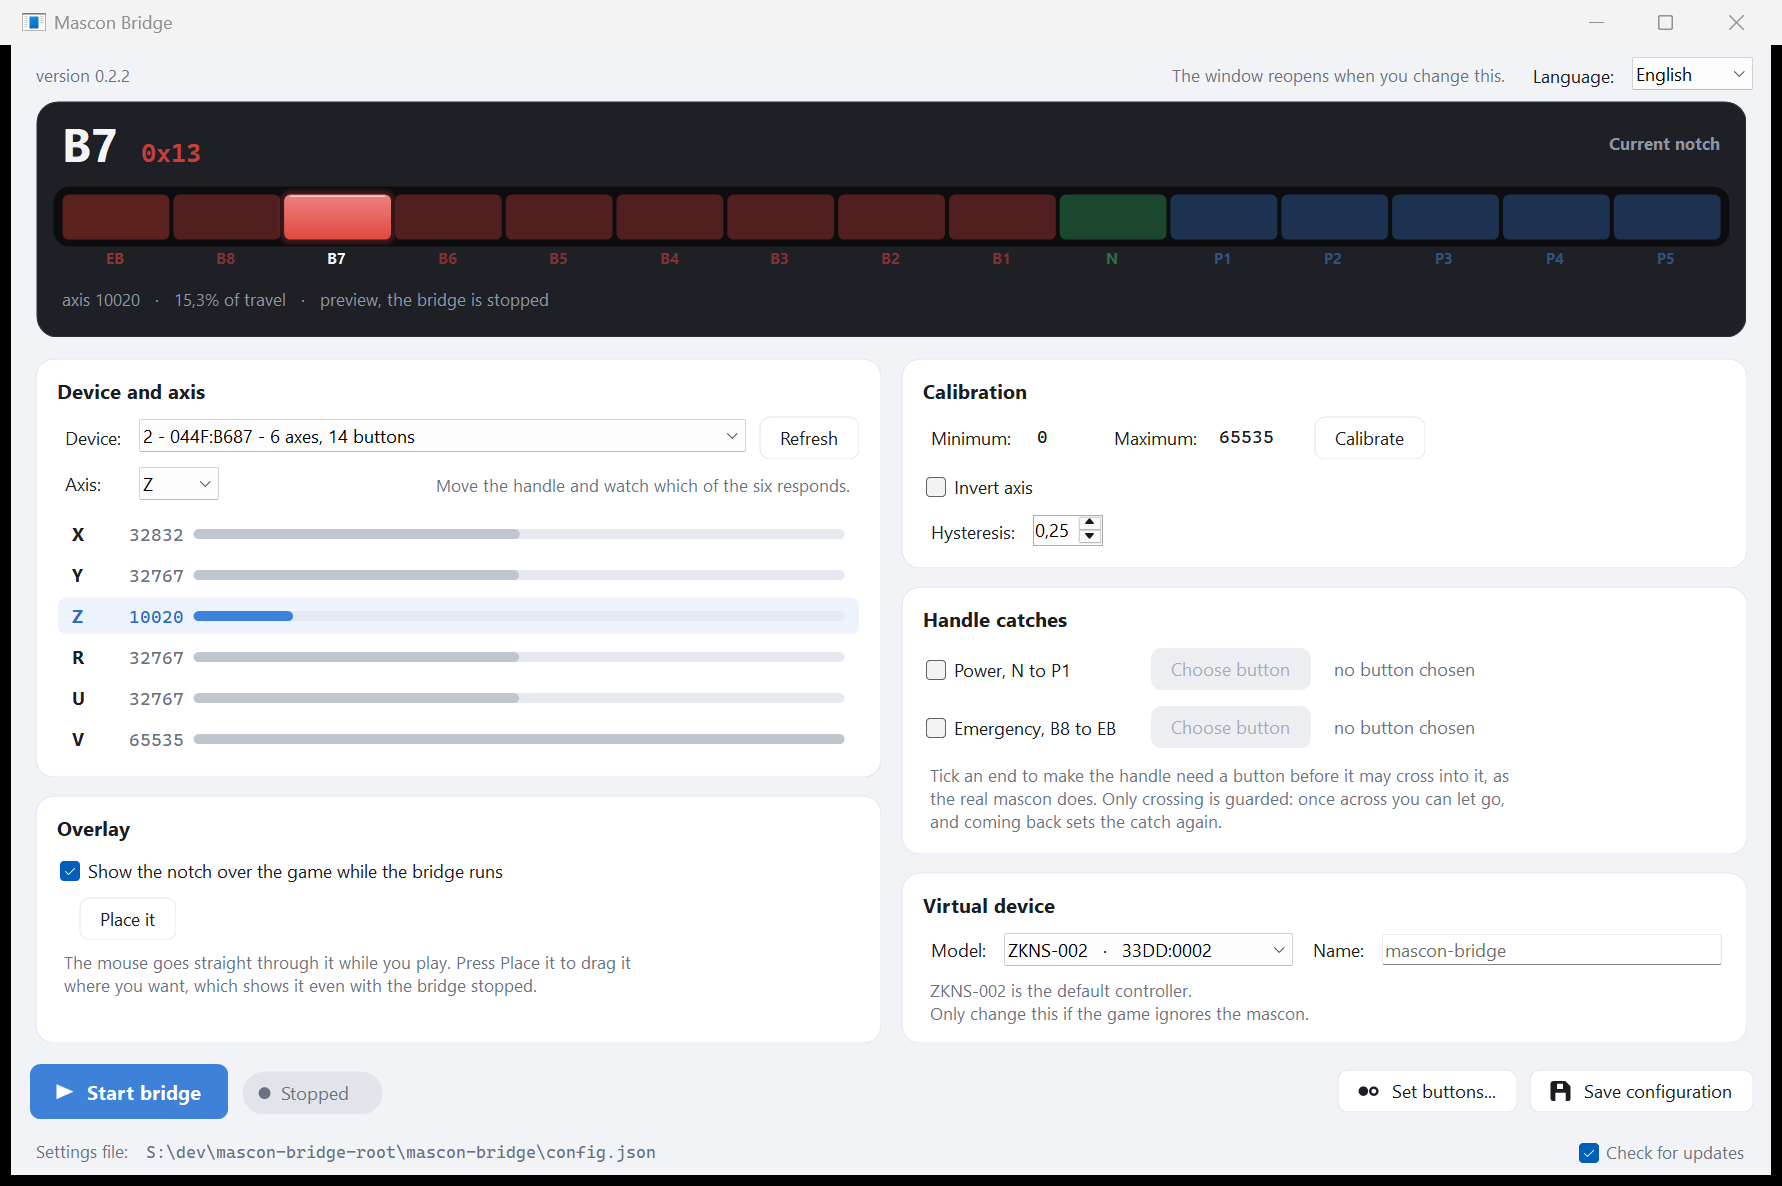
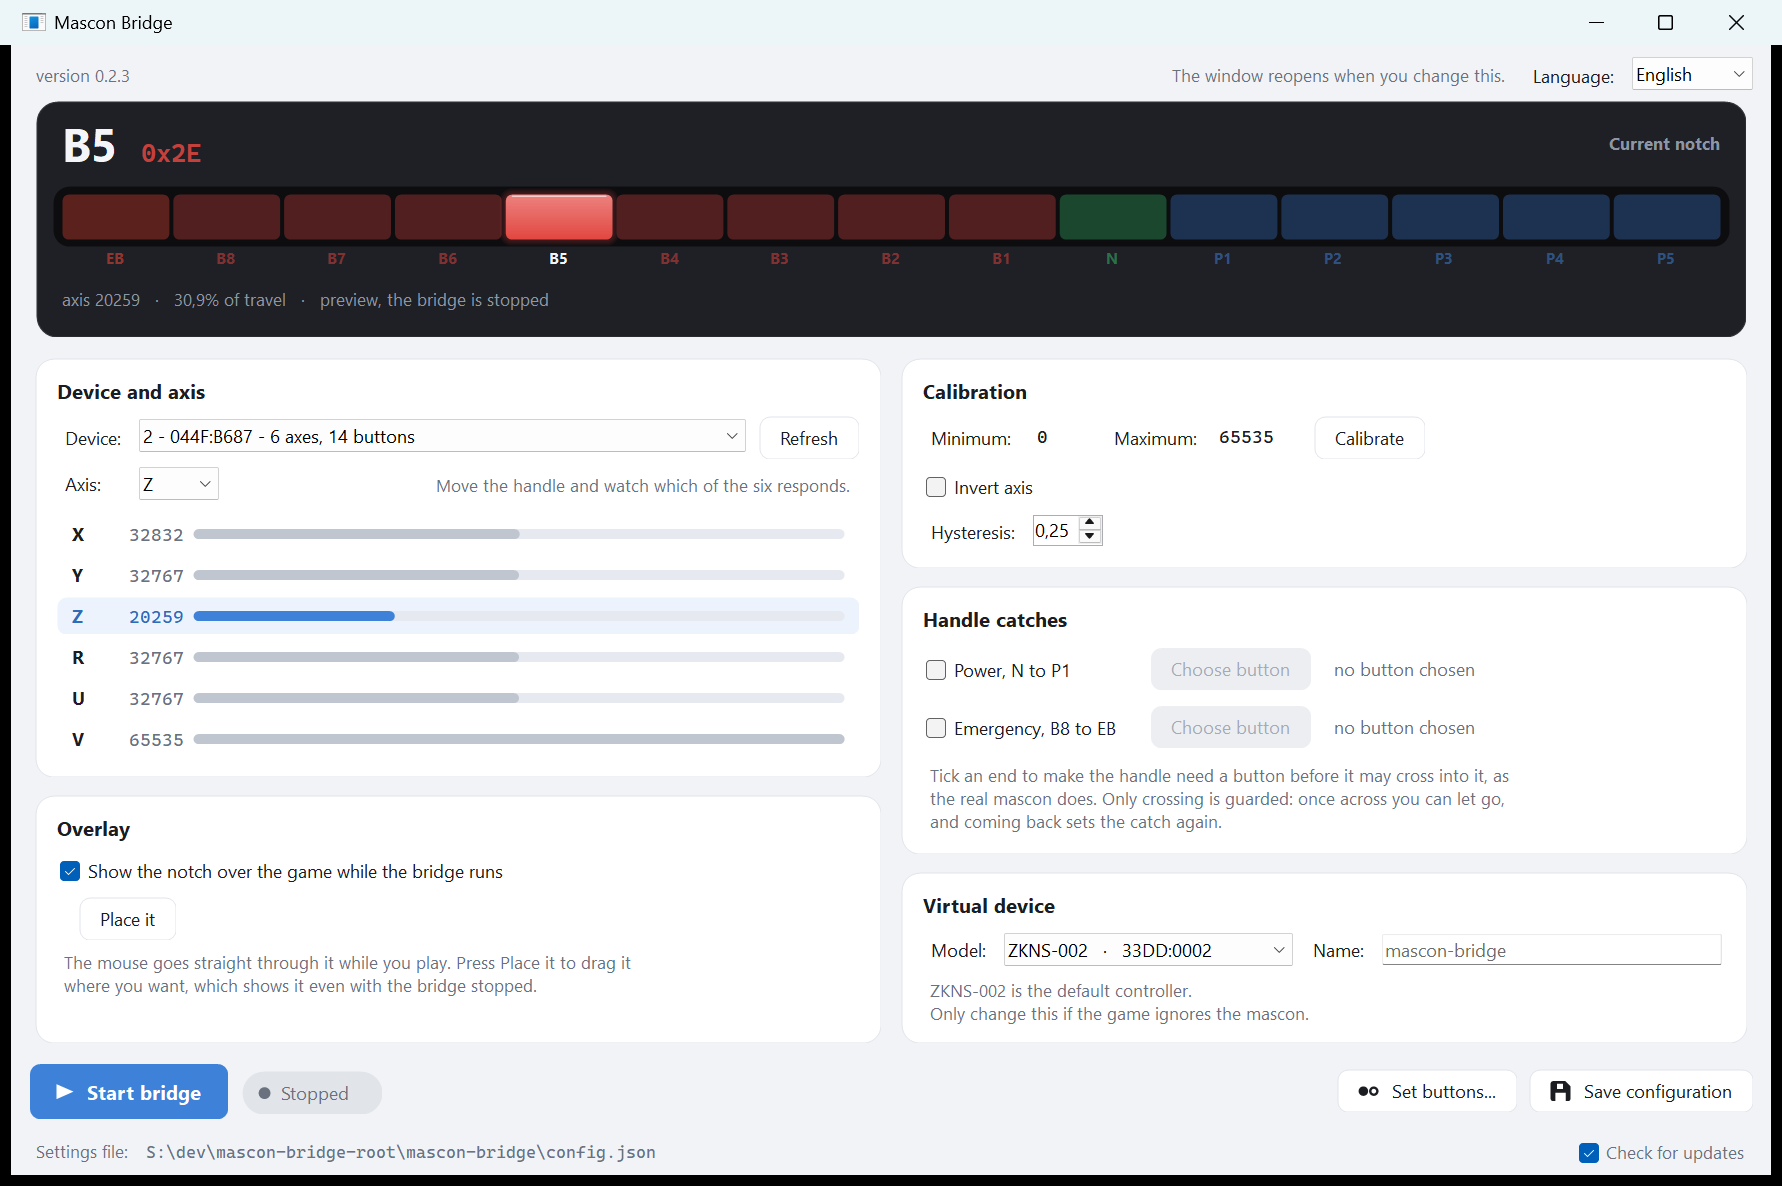
Write the changelog for v0.2.3, and stamp the version (#24)
* Write the changelog for v0.2.3, and stamp the version

The virtual device can be given a different name, for software that matches
on it rather than on the ids, and the name Windows had cached is updated so
the change lands on pressing Start.

* Retake the screenshots for v0.2.3

They carry the version in their corner, so they would otherwise go out a
patch behind.

diff --git a/release-notes/v0.2.3.md b/release-notes/v0.2.3.md
@@ -1,0 +1,41 @@
+- **仮想デバイスの名前を変更できるようになりました。** 「仮想デバイス」の**名前**の欄に
+  入力すると、その名前で名乗ります。空欄なら `mascon-bridge` のままです。ゲームはこの名前を
+  見ません。Steam もゲームもベンダー ID とプロダクト ID で判定するためで、そこは変わって
+  いません。
+- **この欄があるのは、名前で判定する外部ソフトのためです。** たとえば BVE Trainsim の入力
+  デバイスプラグインには、デバイス名でプロファイルを対応づけるものがあります。その場合は
+  実機の名前を入れると一致します。ゲームで使うぶんには空欄のままで構いません。
+- **Windows が覚えている名前も更新するようにしました。** Windows は各デバイスの名前を
+  ベンダー ID とプロダクト ID ごとに控えていて、「ゲーム コントローラー」の画面はデバイス
+  ではなくその控えを読みます。この控えが残るため、これまでは名前を変えても古いままでした。
+  ブリッジは、デバイスを作る前に食い違う控えを削除し、作ったあとに正しい名前を書き込みます。
+  **ブリッジを開始した時点で反映されます**（プログラムを再起動する必要はありません）。
+  ただし「ゲーム コントローラー」の画面自体は自動で更新されないため、開き直してください。
+- 名前が長い場合は、マウスを乗せると全体が表示されます。
+
+ノッチ値・HID レポート・軸の読み取りには手を入れていないので、運転の操作感は v0.2.2 と
+同じです。
+
+<details>
+<summary>English</summary>
+
+- **The virtual device can be given a different name.** Type one in the **Name** box in
+  the virtual device card and that is what it announces; leave it empty and it stays
+  `mascon-bridge`. The game never reads it — Steam and the game both match on the vendor
+  and product ids, and that has not changed.
+- **The box is there for software that does look at the name.** A BVE Trainsim input
+  device plugin, for instance, can map a device to a profile by name, in which case
+  entering the real mascon's name is what makes the profile match. For the game, leave
+  it empty.
+- **The name Windows remembers is updated too.** Windows keeps a name per vendor and
+  product id, and the Game Controllers panel reads that rather than asking the device.
+  The entry outlives the device, which is why a new name used to have no effect. The
+  bridge now clears an entry that disagrees before creating the device and writes the
+  right one afterwards, so **the change lands when you press Start** — no need to
+  restart the program. The panel itself does not refresh, so reopen it.
+- A name longer than the box can be read from the tooltip.
+
+The notch values, the HID report and the axis reading are untouched, so it drives
+exactly as v0.2.2 did.
+
+</details>
